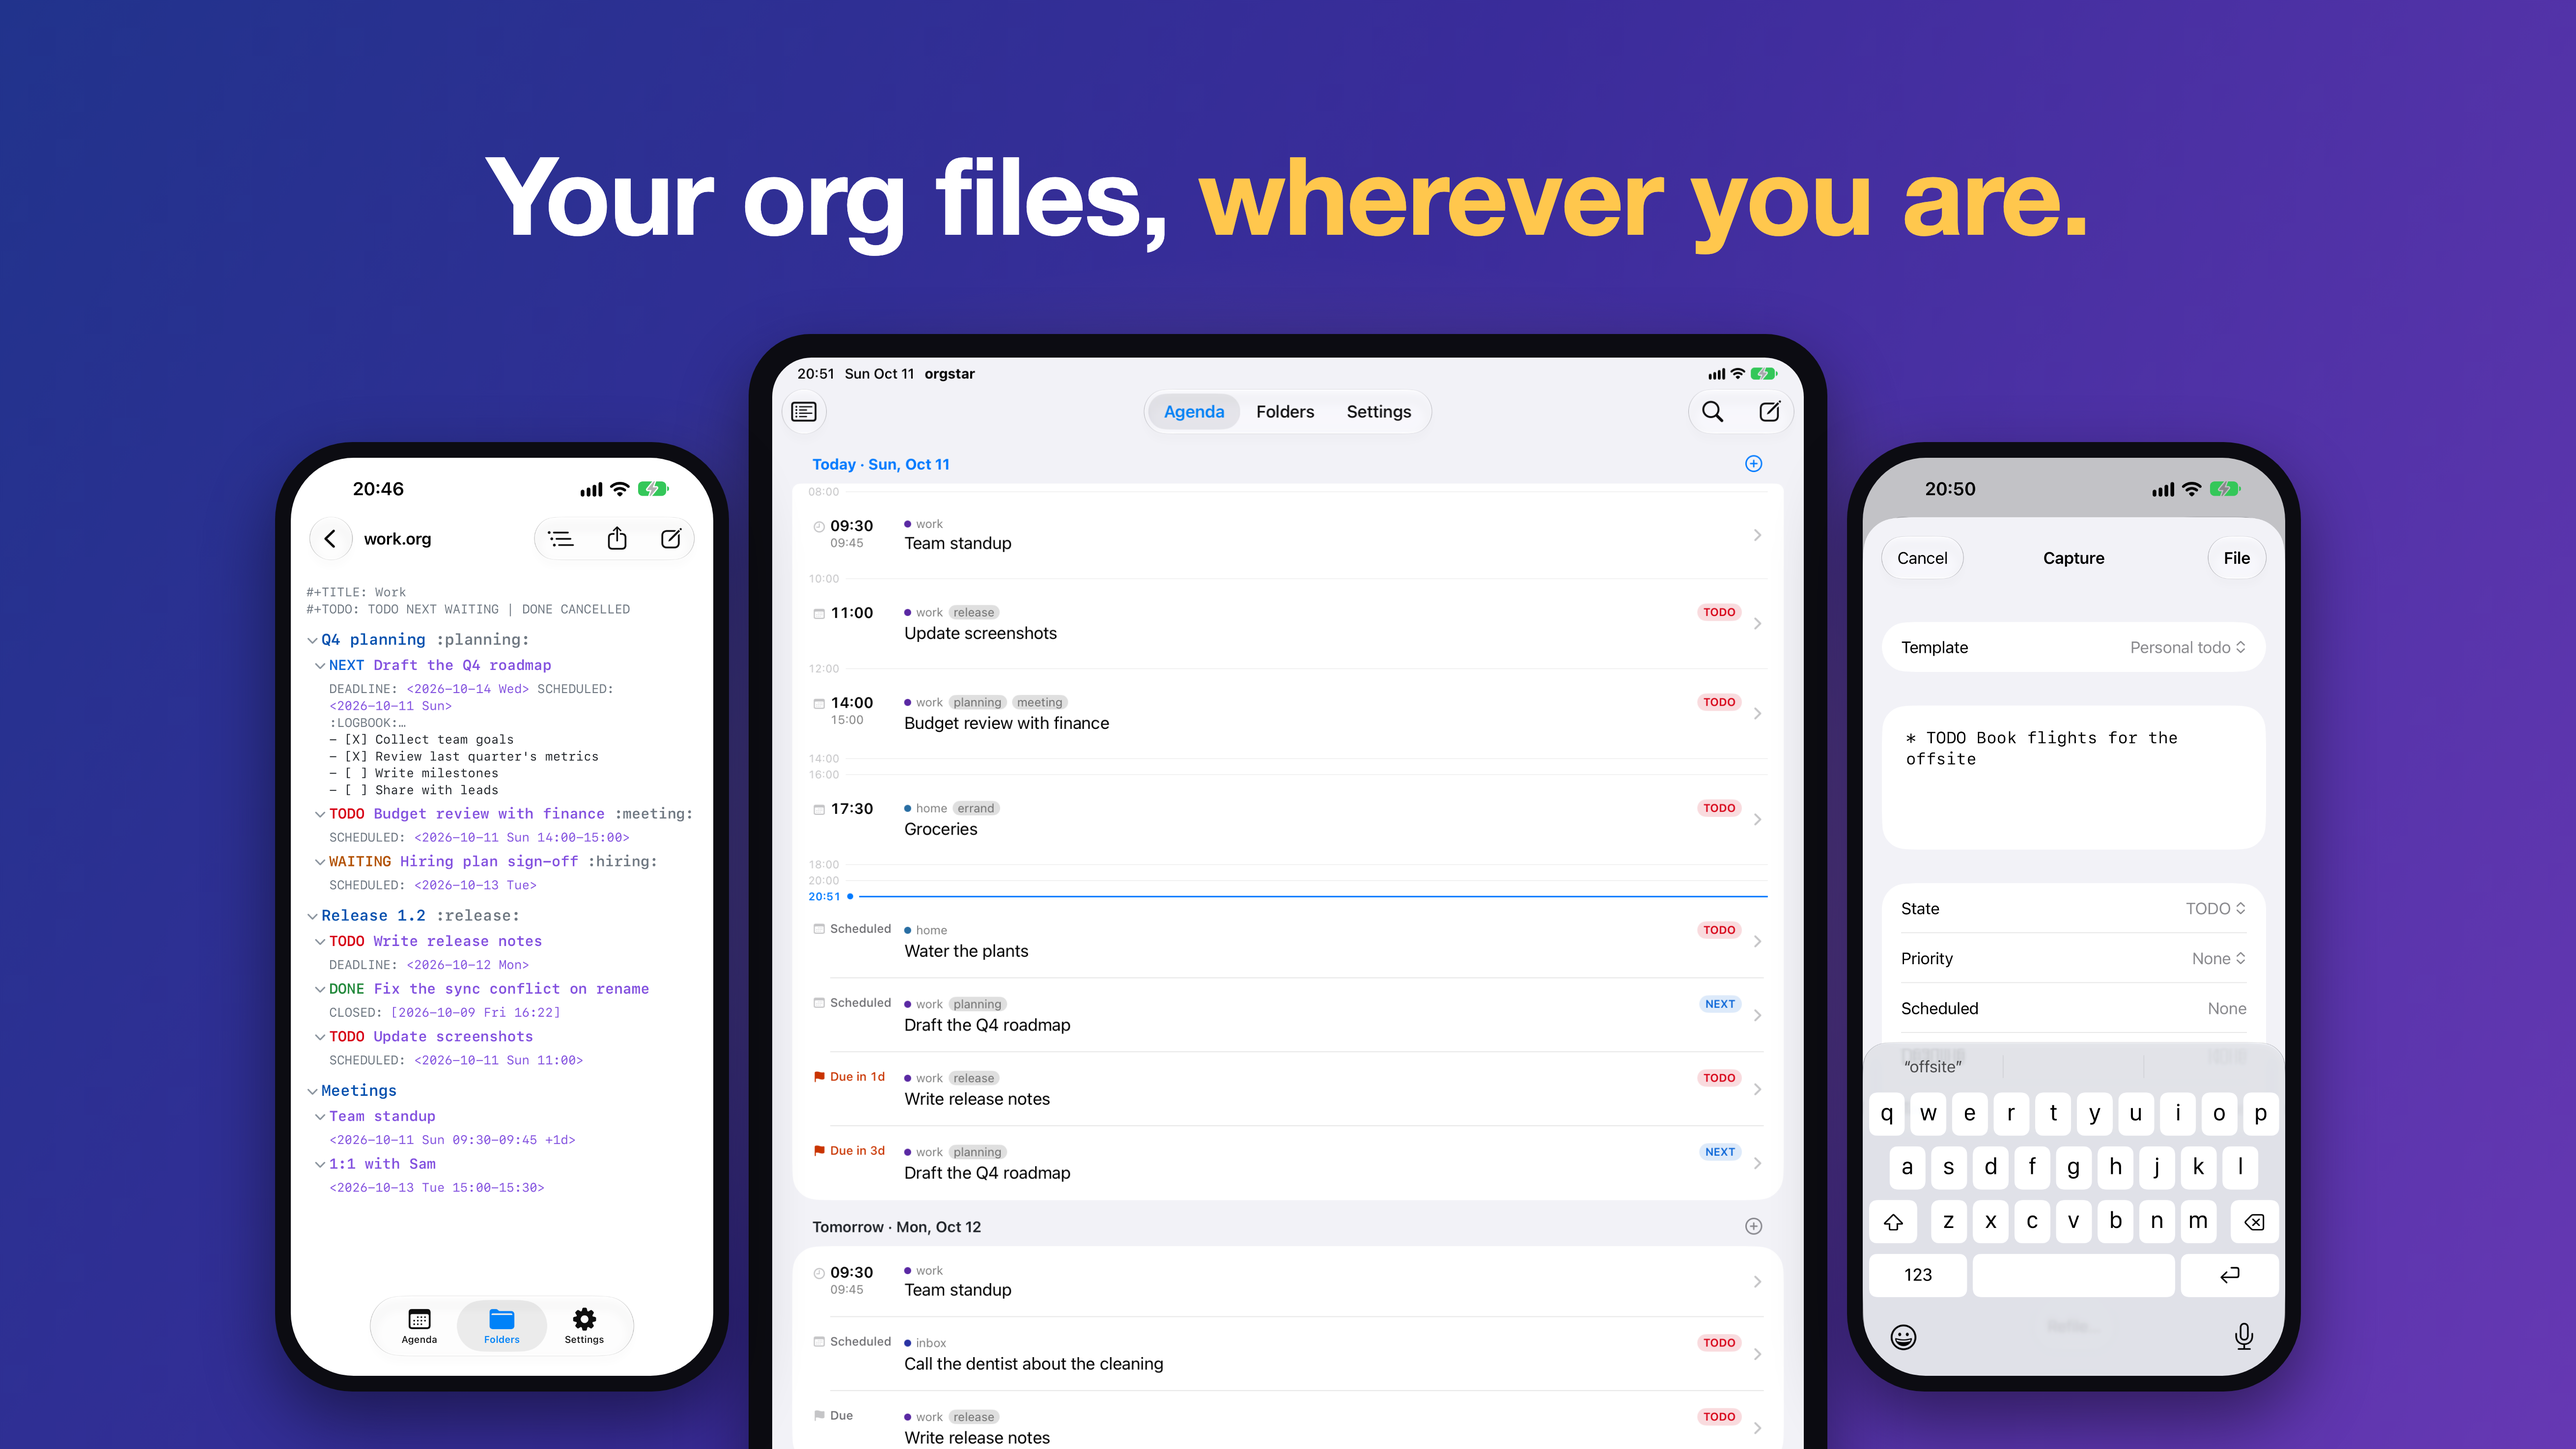
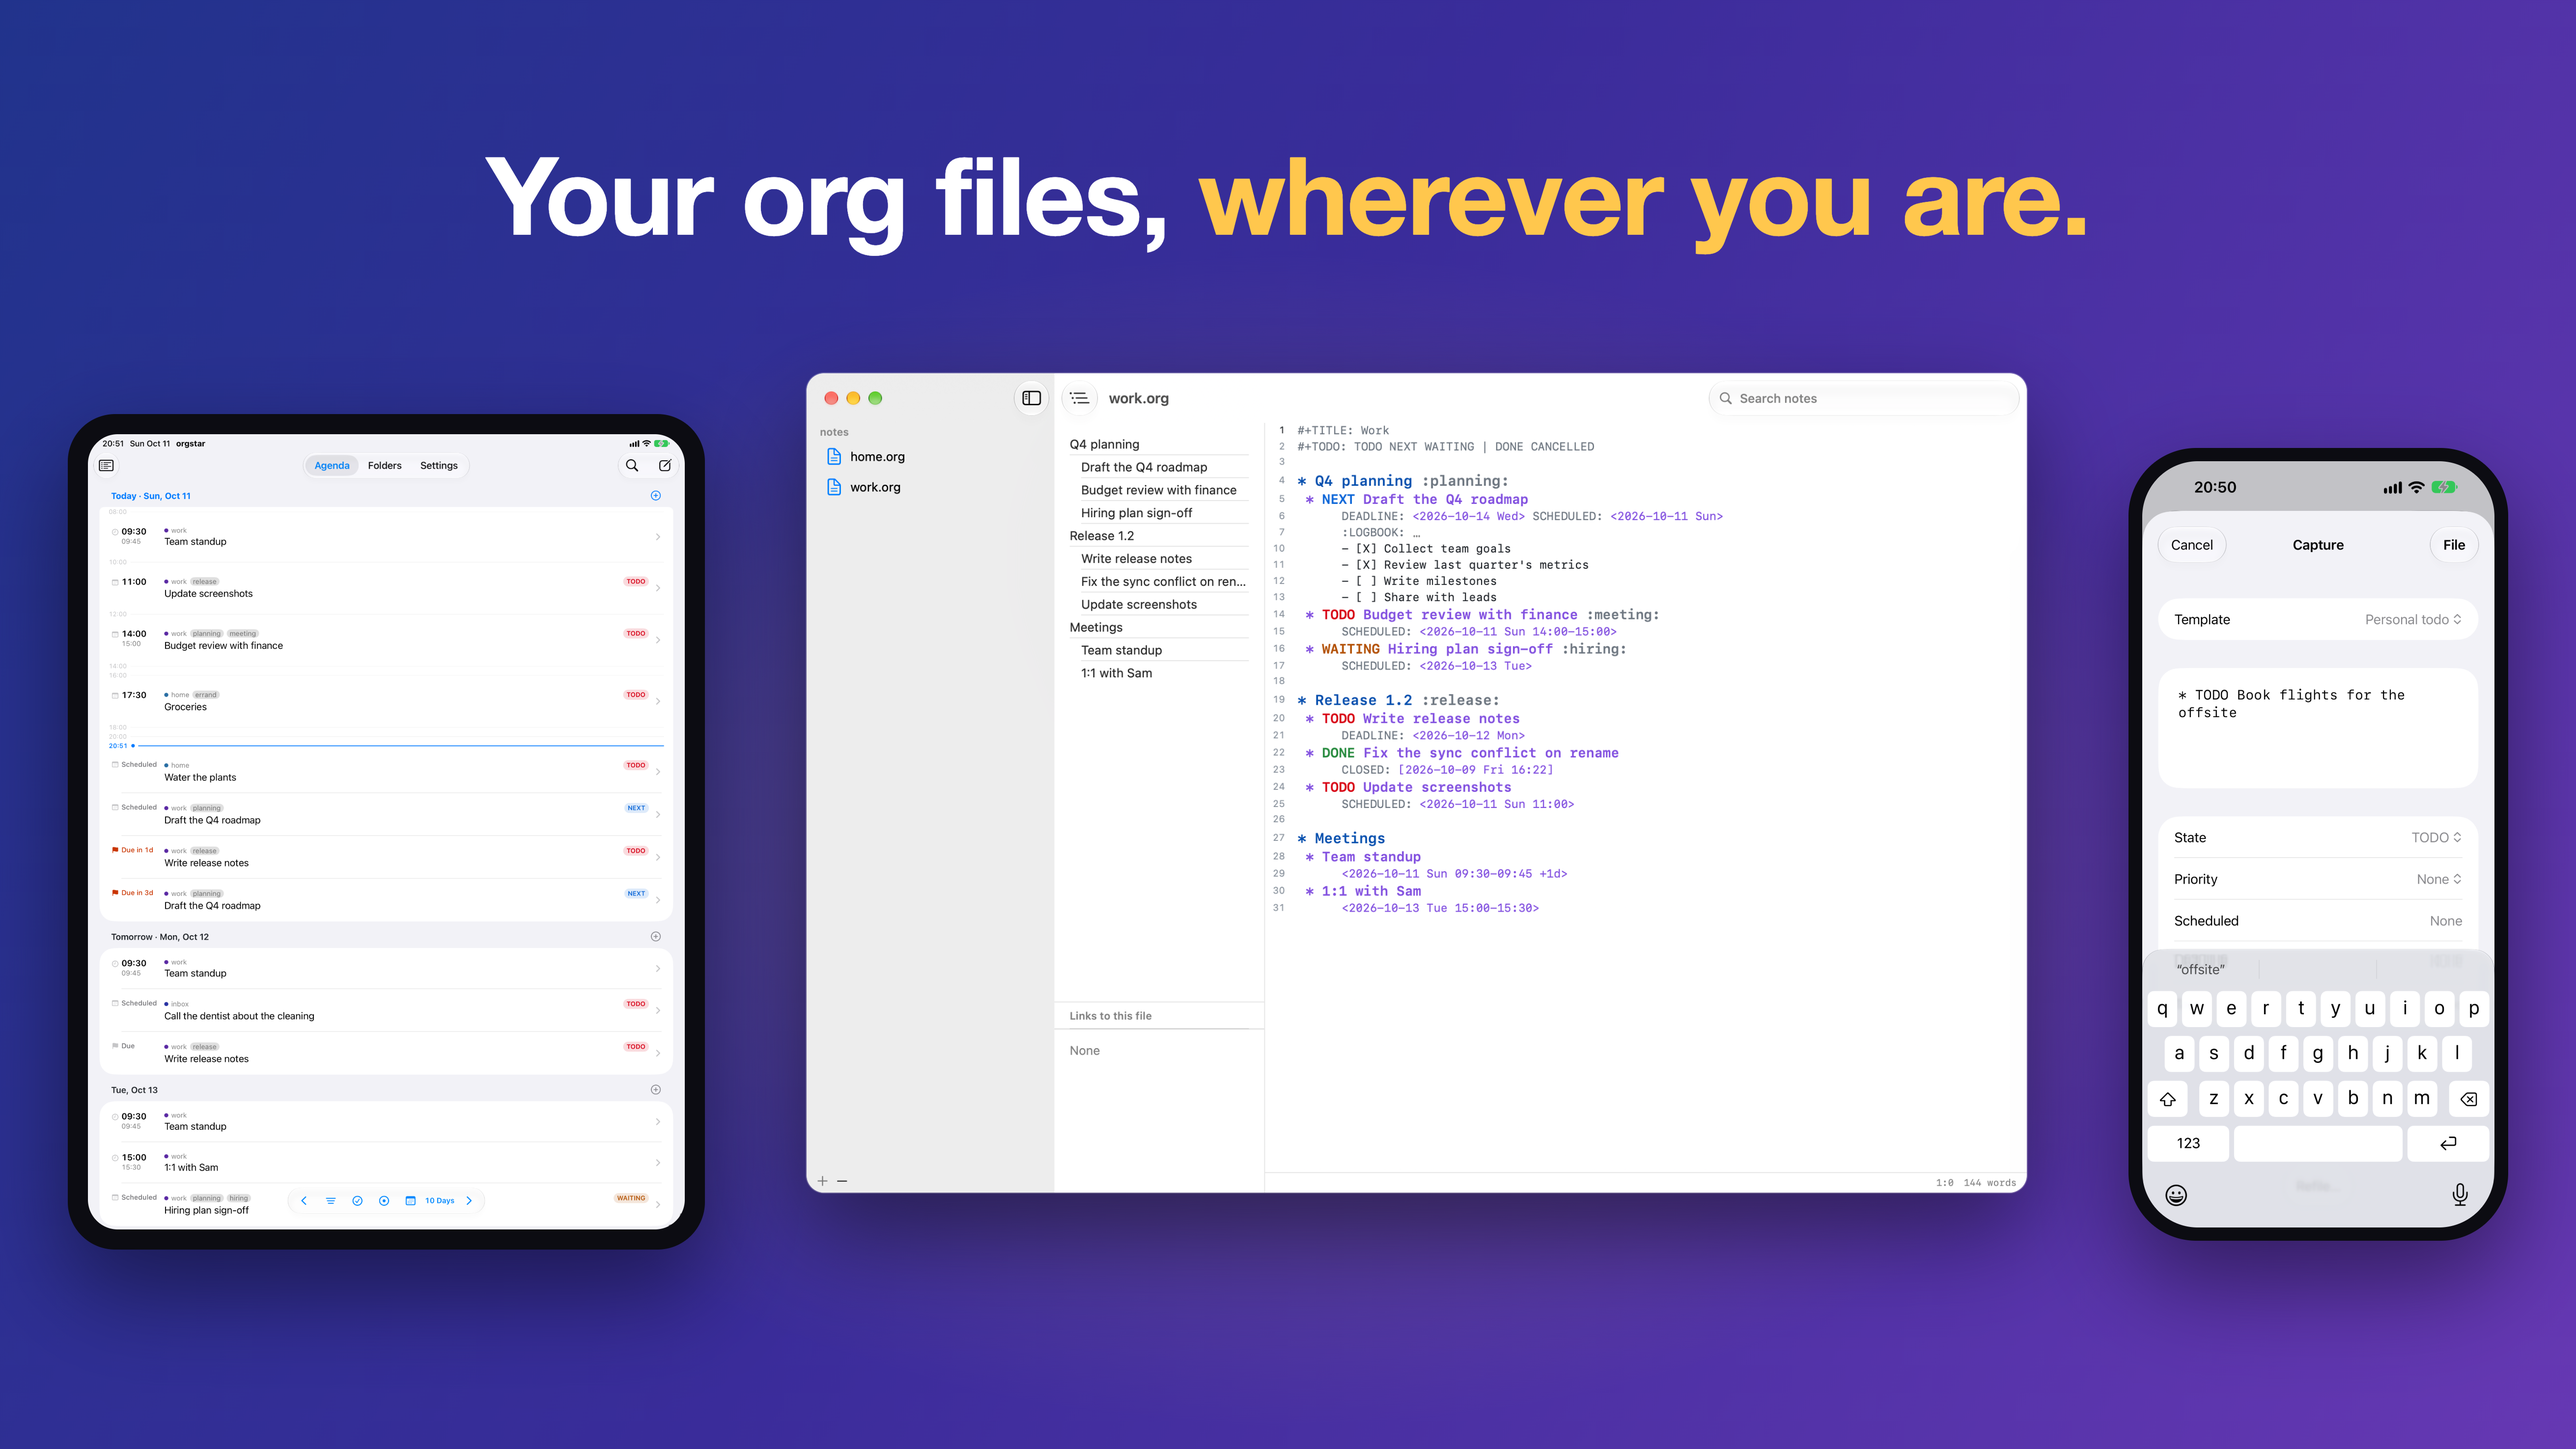
App Store header with the Mac app
iPad, Mac and iPhone in one centered row with a single gap, border-box sizing so padding no longer shifts the iPad off center. Adds the Mac editor screenshot and fixes the 16:9 render command, which needs a file:// URL for the #wide fragment.

diff --git a/ios/AppStore/header.html b/ios/AppStore/header.html
@@ -2,12 +2,14 @@
 <!-- Product page header. header.html renders the 21:9 header (3840x1646), header.html#wide the
      16:9 one (5244x2950), with headless Chromium, then the alpha channel is removed:
      Chromium --headless --hide-scrollbars --force-device-scale-factor=1 --window-size=3840,1646 --screenshot=header-21x9.png header.html
-     Chromium --headless --hide-scrollbars --force-device-scale-factor=1 --window-size=5244,2950 --screenshot=header-16x9.png 'header.html#wide'
+     Chromium --headless --hide-scrollbars --force-device-scale-factor=1 --window-size=5244,2950 --screenshot=header-16x9.png "file://$PWD/header.html#wide"
      magick header-21x9.png -alpha off PNG24:header-21x9.png -->
 <html>
 <head>
 <meta charset="utf-8">
 <style>
+  :root { --u: 1px; --row-top: 420px; }
+  * { box-sizing: border-box; }
   html, body { margin: 0; width: 3840px; height: 1646px; overflow: hidden; }
   body {
     background: linear-gradient(120deg, #21338c 0%, #3a2c9a 45%, #6638b3 100%);
@@ -25,35 +27,44 @@
     text-align: center; font-size: 150px; font-weight: 700; letter-spacing: -2px;
   }
   h1 span { color: #ffc74d; }
-  .device {
-    position: absolute; background: #0c0c12; box-shadow: 0 60px 140px rgba(0, 0, 0, 0.45);
+  /* One row, centered, one gap: the space between devices is equal by construction. */
+  .row {
+    position: absolute; top: var(--row-top); left: 0; right: 0;
+    display: flex; justify-content: center; align-items: flex-start; gap: calc(150 * var(--u));
   }
+  .device { flex: none; box-shadow: 0 calc(60 * var(--u)) calc(140 * var(--u)) rgba(0, 0, 0, 0.45); }
   .device img { display: block; width: 100%; height: 100%; object-fit: cover; object-position: top; }
-  .ipad { width: 1500px; height: 2000px; left: 1170px; top: 400px; padding: 34px; border-radius: 90px; }
-  .ipad img { border-radius: 58px; }
-  .iphone { width: 600px; height: 1304px; top: 520px; padding: 22px; border-radius: 110px; }
-  .iphone img { border-radius: 90px; }
-  .left { left: 440px; }
-  .right { right: 440px; }
+  .ipad {
+    width: calc(940 * var(--u)); height: calc(1233 * var(--u)); margin-top: calc(60 * var(--u));
+    padding: calc(30 * var(--u)); border-radius: calc(70 * var(--u)); background: #0c0c12;
+  }
+  .ipad img { border-radius: calc(44 * var(--u)); }
+  .mac {
+    width: calc(1800 * var(--u)); height: calc(1209 * var(--u));
+    border-radius: calc(26 * var(--u)); overflow: hidden; background: #fff;
+    outline: calc(2 * var(--u)) solid rgba(255, 255, 255, 0.25);
+  }
+  .iphone {
+    width: calc(560 * var(--u)); height: calc(1170 * var(--u)); margin-top: calc(110 * var(--u));
+    padding: calc(20 * var(--u)); border-radius: calc(100 * var(--u)); background: #0c0c12;
+  }
+  .iphone img { border-radius: calc(82 * var(--u)); }
 
   /* 16:9, 5244x2950. */
+  html.wide { --u: 1.38px; --row-top: 760px; }
   html.wide, .wide body { width: 5244px; height: 2950px; }
   .wide .glow { width: 3800px; height: 2400px; }
   .wide h1 { top: 260px; font-size: 220px; letter-spacing: -3px; }
-  .wide .ipad { width: 2100px; height: 2800px; left: 1524px; top: 680px; padding: 48px; border-radius: 126px; }
-  .wide .ipad img { border-radius: 80px; }
-  .wide .iphone { width: 860px; height: 1869px; top: 900px; padding: 32px; border-radius: 158px; }
-  .wide .iphone img { border-radius: 128px; }
-  .wide .left { left: 560px; }
-  .wide .right { right: 560px; }
 </style>
 <script>if (location.hash === "#wide") document.documentElement.className = "wide";</script>
 </head>
 <body>
   <div class="glow"></div>
   <h1>Your org files, <span>wherever you are.</span></h1>
-  <div class="device ipad"><img src="screenshots/ipad/01-agenda.png"></div>
-  <div class="device iphone left"><img src="screenshots/iphone-6.9/02-reader.png"></div>
-  <div class="device iphone right"><img src="screenshots/iphone-6.9/05-capture.png"></div>
+  <div class="row">
+    <div class="device ipad"><img src="screenshots/ipad/01-agenda.png"></div>
+    <div class="device mac"><img src="screenshots/mac/01-editor.png"></div>
+    <div class="device iphone"><img src="screenshots/iphone-6.9/05-capture.png"></div>
+  </div>
 </body>
 </html>

diff --git a/README.md b/README.md
@@ -1,6 +1,6 @@
 # orgstar
 
-![orgstar on iPhone and iPad](ios/AppStore/header-21x9.png)
+![orgstar on iPad, Mac and iPhone](ios/AppStore/header-21x9.png)
 
 A native macOS editor for org-mode files, with an iOS app for iPhone and iPad.
 
